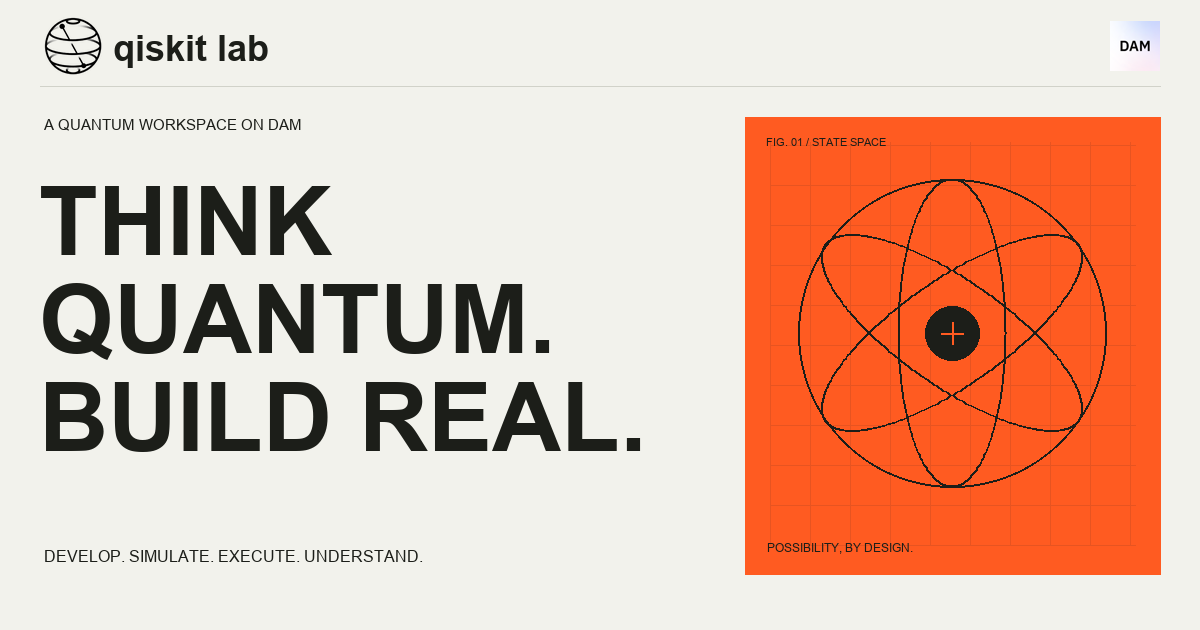
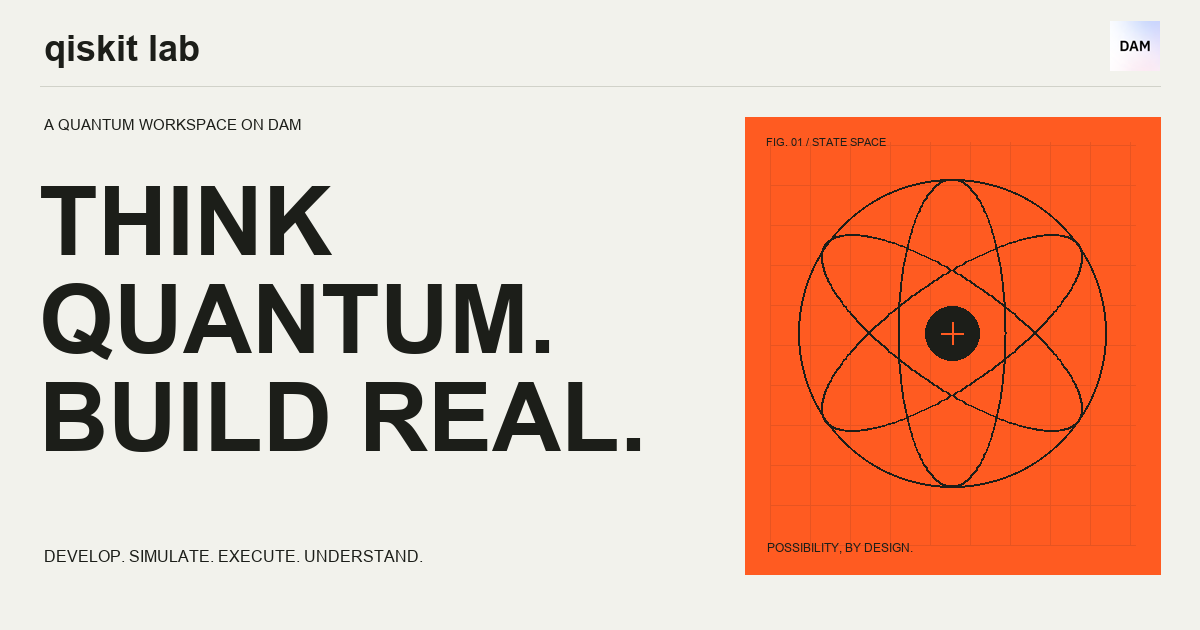
Present Qiskit SDK as a technology credit beside DAM (#36)

Changed region(s): [[0.0308, 0.0302, 0.2467, 0.1206]]

diff --git a/site/index.html b/site/index.html
@@ -22,7 +22,7 @@
       property="og:image"
       content="https://brun3y.github.io/qiskit_lab/assets/social-preview.png"
     />
-    <link rel="icon" href="assets/qiskit-favicon.png" type="image/png" />
+    <link rel="icon" href="assets/favicon.svg" type="image/svg+xml" />
     <link
       rel="preload"
       href="assets/plex-mono-400.woff2"
@@ -46,32 +46,39 @@
       </div>
       <header class="header">
         <a class="wordmark" href="#top" aria-label="Qiskit Lab home"
-          ><img
-            class="qiskit-logo"
-            src="assets/qiskit-logo.png"
-            alt="Qiskit SDK logo"
-            width="42"
-            height="42"
-          /><span>qiskit<span class="wordmark-light">lab</span></span></a
+          ><span>qiskit<span class="wordmark-light">lab</span></span></a
         >
         <nav class="desktop-nav mono" aria-label="Main navigation">
           <a href="#capabilities">The workspace</a
           ><a href="#playground">Playground</a><a href="#start">Get started</a>
         </nav>
         <div class="header-end">
+          <div class="technology-credits" aria-label="Project technologies">
+            <a
+              class="technology-credit dam-brand"
+              href="https://github.com/dam-agents/dam"
+              target="_blank"
+              rel="noopener noreferrer"
+              aria-label="Visit DAM on GitHub (opens in a new tab)"
+              ><span class="mono">BUILT ON</span
+              ><img src="assets/dam-logo.png" alt="DAM" width="48" height="48"
+            /></a>
+            <a
+              class="technology-credit qiskit-brand"
+              href="https://github.com/Qiskit/qiskit"
+              target="_blank"
+              rel="noopener noreferrer"
+              aria-label="Built with Qiskit SDK — view on GitHub (opens in a new tab)"
+              ><span class="mono">BUILT WITH</span
+              ><img
+                class="qiskit-logo"
+                src="assets/qiskit-logo.png"
+                alt="Qiskit SDK"
+                width="48"
+                height="48"
+            /></a>
+          </div>
           <a
-            class="dam-brand"
-            href="https://github.com/dam-agents/dam"
-            target="_blank"
-            rel="noopener noreferrer"
-            aria-label="Visit DAM on GitHub (opens in a new tab)"
-            ><span class="mono">BUILT ON</span
-            ><img
-              src="assets/dam-logo.png"
-              alt="DAM"
-              width="48"
-              height="48" /></a
-          ><a
             class="repo-link"
             href="https://github.com/BrUn3y/qiskit_lab"
             target="_blank"
@@ -824,14 +831,7 @@ uv run --locked qiskit-lab execute --example bell --shots 256</code></pre>
       <footer class="footer">
         <div class="footer-brand">
           <a class="footer-wordmark" href="#top" aria-label="Qiskit Lab home"
-            ><img
-              class="qiskit-logo"
-              src="assets/qiskit-logo.png"
-              alt="Qiskit SDK logo"
-              width="42"
-              height="42"
-              loading="lazy"
-            /><span>qiskit<span class="wordmark-light">lab</span> ↗</span></a
+            ><span>qiskit<span class="wordmark-light">lab</span> ↗</span></a
           >
           <p>A quantum workspace. An open question.</p>
         </div>
@@ -841,17 +841,33 @@ uv run --locked qiskit-lab execute --example bell --shots 256</code></pre>
             >DOCUMENTATION ↗</a
           ><a href="https://github.com/dam-agents/dam">DAM ↗</a>
         </div>
-        <a
-          class="footer-dam"
-          href="https://github.com/dam-agents/dam"
-          aria-label="Visit DAM on GitHub"
-          ><img
-            src="assets/dam-logo.png"
-            width="64"
-            height="64"
-            alt="DAM"
-            loading="lazy"
-        /></a>
+        <div class="footer-credits" aria-label="Project technologies">
+          <a
+            class="footer-dam"
+            href="https://github.com/dam-agents/dam"
+            aria-label="Visit DAM on GitHub"
+            ><span class="mono">BUILT ON</span
+            ><img
+              src="assets/dam-logo.png"
+              width="64"
+              height="64"
+              alt="DAM"
+              loading="lazy"
+          /></a>
+          <a
+            class="footer-qiskit"
+            href="https://github.com/Qiskit/qiskit"
+            aria-label="Built with Qiskit SDK — view on GitHub"
+            ><span class="mono">BUILT WITH</span
+            ><img
+              class="qiskit-logo"
+              src="assets/qiskit-logo.png"
+              width="64"
+              height="64"
+              alt="Qiskit SDK"
+              loading="lazy"
+          /></a>
+        </div>
         <div class="footer-bottom mono">
           <span
             >© <span id="year">2026</span> QISKIT LAB · BY EDGAR BRUNEY</span

diff --git a/site/styles.css b/site/styles.css
@@ -216,13 +216,23 @@ p {
   align-items: center;
   gap: 24px;
 }
-.dam-brand {
+.technology-credits {
+  display: flex;
+  align-items: center;
+  gap: 20px;
+}
+.technology-credit {
   display: flex;
   gap: 11px;
   align-items: center;
 }
-.dam-brand span {
+.technology-credit span {
   font-size: 8px;
+  white-space: nowrap;
+}
+.technology-credit img {
+  width: 48px;
+  height: 48px;
 }
 .dam-brand img {
   border: 1px solid #dddddc;
@@ -1243,8 +1253,25 @@ details > p {
 .footer-bottom a:hover {
   color: #a33a13;
 }
-.footer-dam {
+.footer-credits {
+  display: flex;
+  align-items: center;
+  gap: 16px;
   margin-left: 20px;
+}
+.footer-credits a {
+  display: flex;
+  flex-direction: column;
+  align-items: center;
+  gap: 8px;
+}
+.footer-credits .mono {
+  font-size: 7px;
+  white-space: nowrap;
+}
+.footer-credits img {
+  width: 64px;
+  height: 64px;
 }
 .footer-bottom {
   grid-column: 1/-1;
@@ -1318,8 +1345,14 @@ details > p {
   .header-end {
     gap: 18px;
   }
-  .dam-brand > span {
-    display: none;
+  .technology-credits {
+    gap: 14px;
+  }
+  .technology-credit {
+    gap: 8px;
+  }
+  .technology-credit span {
+    font-size: 7px;
   }
   .hero-grid {
     gap: 24px;
@@ -1387,21 +1420,27 @@ details > p {
     gap: 20px;
   }
   .desktop-nav {
-    gap: 16px;
-    font-size: 8px;
-    margin-right: 8px;
+    display: none;
+  }
+  .menu-toggle {
+    display: flex;
+    align-items: center;
+    gap: 10px;
+    border: 0;
+    background: none;
+    padding: 10px 0;
+    font-size: 9px;
+  }
+  .menu-toggle span {
+    font-size: 20px;
   }
   .wordmark > span {
     font-size: 28px;
   }
-  .wordmark .qiskit-logo {
-    width: 36px;
-    height: 36px;
-  }
   .header-end {
     gap: 15px;
   }
-  .dam-brand img {
+  .technology-credit img {
     width: 40px;
     height: 40px;
   }
@@ -1580,7 +1619,7 @@ details > p {
     order: 3;
     width: 100%;
   }
-  .footer-dam {
+  .footer-credits {
     margin-left: 0;
   }
   .closing-cta {
@@ -1602,7 +1641,12 @@ details > p {
     display: none;
   }
   .header {
-    height: 78px;
+    height: auto;
+    display: grid;
+    grid-template-columns: 1fr auto;
+    gap: 12px;
+    padding-top: 17px;
+    padding-bottom: 14px;
   }
   .wordmark {
     gap: 9px;
@@ -1610,21 +1654,26 @@ details > p {
   .wordmark > span {
     font-size: 28px;
   }
-  .wordmark .qiskit-logo {
-    width: 36px;
-    height: 36px;
-  }
   .header-end {
-    gap: 15px;
+    display: contents;
+  }
+  .technology-credits {
+    grid-column: 1 / -1;
+    grid-row: 2;
+    gap: 26px;
+    border-top: 1px solid var(--line);
+    padding-top: 12px;
   }
   .header-end .repo-link {
     display: none;
   }
-  .dam-brand img {
-    width: 36px;
-    height: 36px;
+  .technology-credit img {
+    width: 32px;
+    height: 32px;
   }
   .menu-toggle {
+    grid-column: 2;
+    grid-row: 1;
     border: 0;
     background: none;
     display: flex;
@@ -2027,13 +2076,14 @@ details > p {
     gap: 23px;
     font-size: 8px;
   }
-  .footer-dam {
+  .footer-credits {
     grid-row: 1;
     grid-column: 2;
+    gap: 12px;
   }
-  .footer-dam img {
-    width: 54px;
-    height: 54px;
+  .footer-credits img {
+    width: 40px;
+    height: 40px;
   }
   .footer-bottom {
     margin-top: 0;
@@ -2073,10 +2123,6 @@ details > p {
   }
   .wordmark > span {
     font-size: 25px;
-  }
-  .wordmark .qiskit-logo {
-    width: 32px;
-    height: 32px;
   }
   .hero h1 {
     font-size: 16.2vw;

diff --git a/site/app.js b/site/app.js
@@ -220,7 +220,7 @@ document.addEventListener("keydown", (event) => {
     menuButton.focus();
   }
 });
-window.matchMedia("(min-width: 641px)").addEventListener("change", (event) => {
+window.matchMedia("(min-width: 901px)").addEventListener("change", (event) => {
   if (event.matches) closeMenu();
 });
 

diff --git a/site/README.md b/site/README.md
@@ -2,9 +2,10 @@
 
 An English project website inspired by the supplied editorial-grid reference.
 It uses static HTML, CSS, and JavaScript, with no build step or runtime dependencies.
-The DAM and Qiskit logos were supplied by the repository owner. The transparent
-Qiskit logo appears in the header and footer; the dark-background version is used
-for the favicon. IBM Plex fonts are
+The DAM and Qiskit logos were supplied by the repository owner. They appear as
+“Built on DAM” and “Built with Qiskit” technology credits in the header and footer.
+The project uses its own text wordmark and QL favicon, separate from these credits.
+IBM Plex fonts are
 self-hosted; their license is in `assets/PLEX-LICENSE.txt`.
 
 Preview from the repository root:
